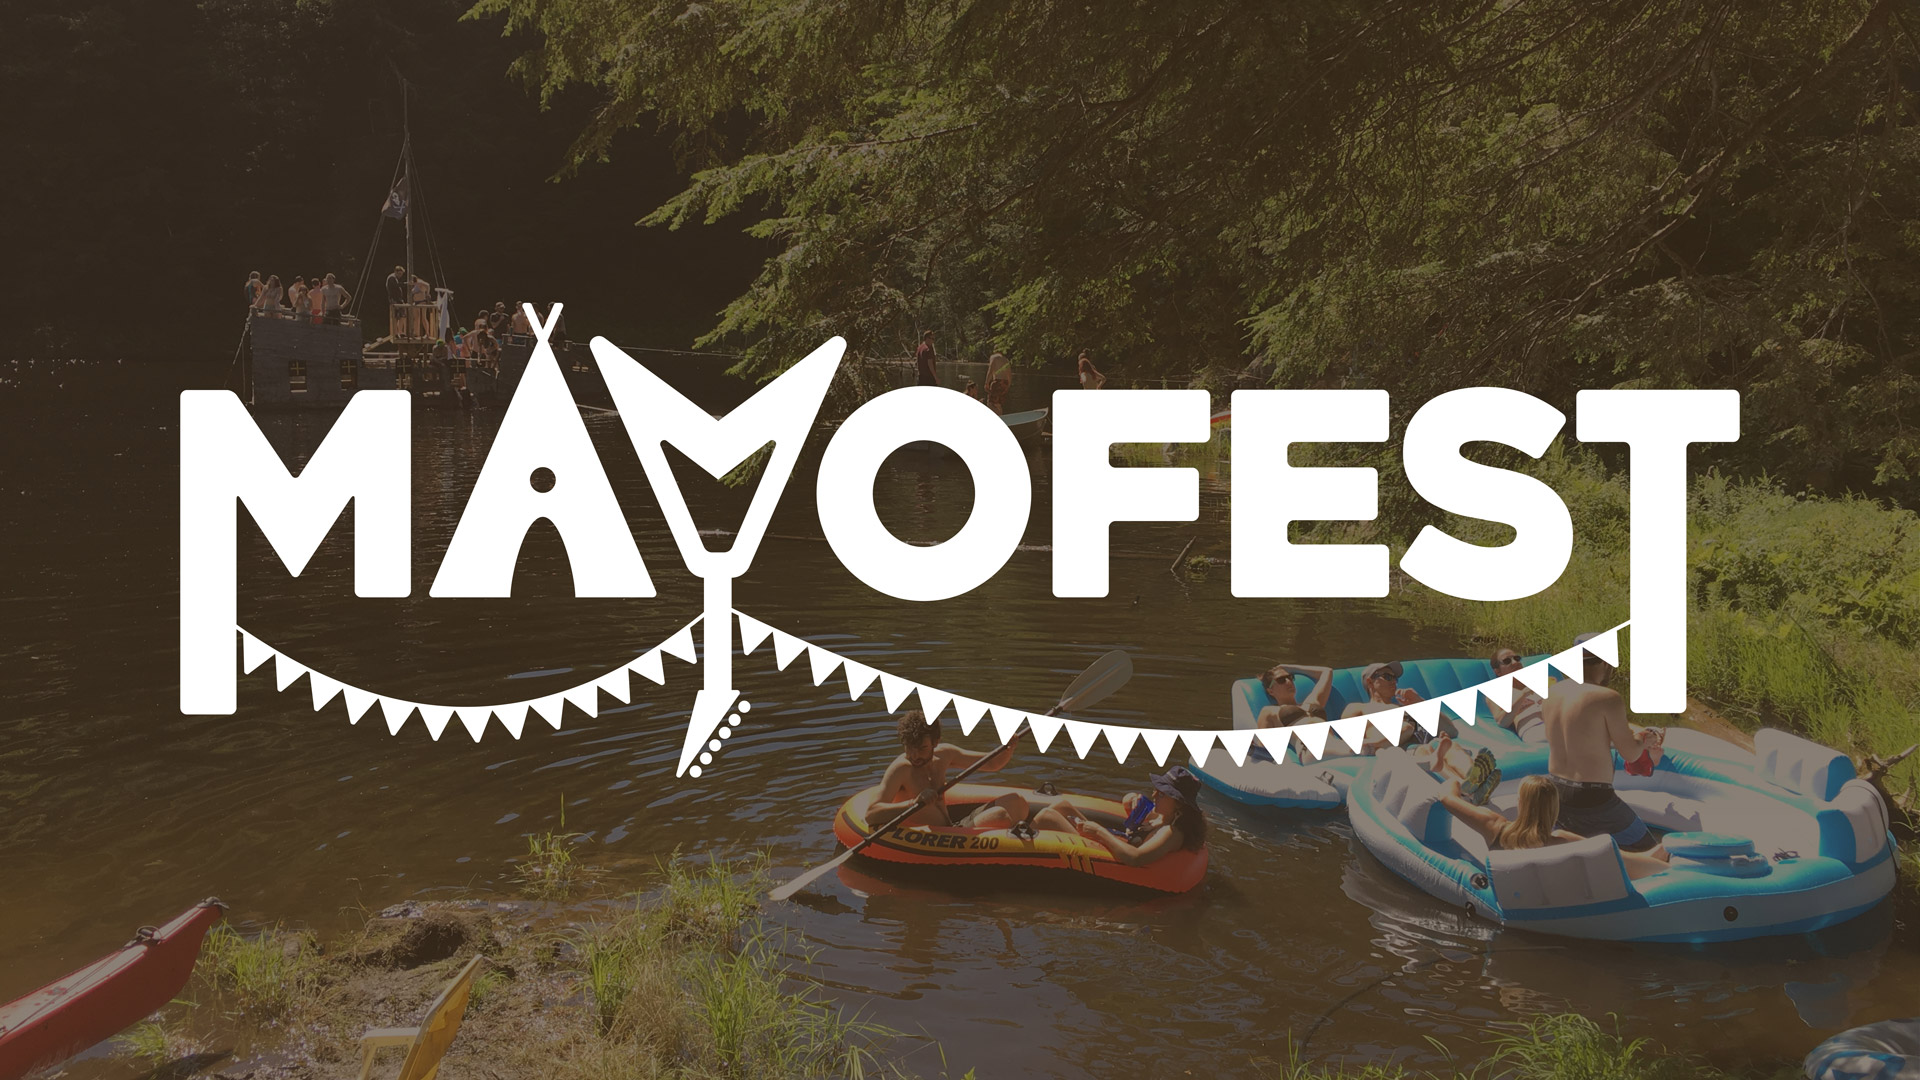
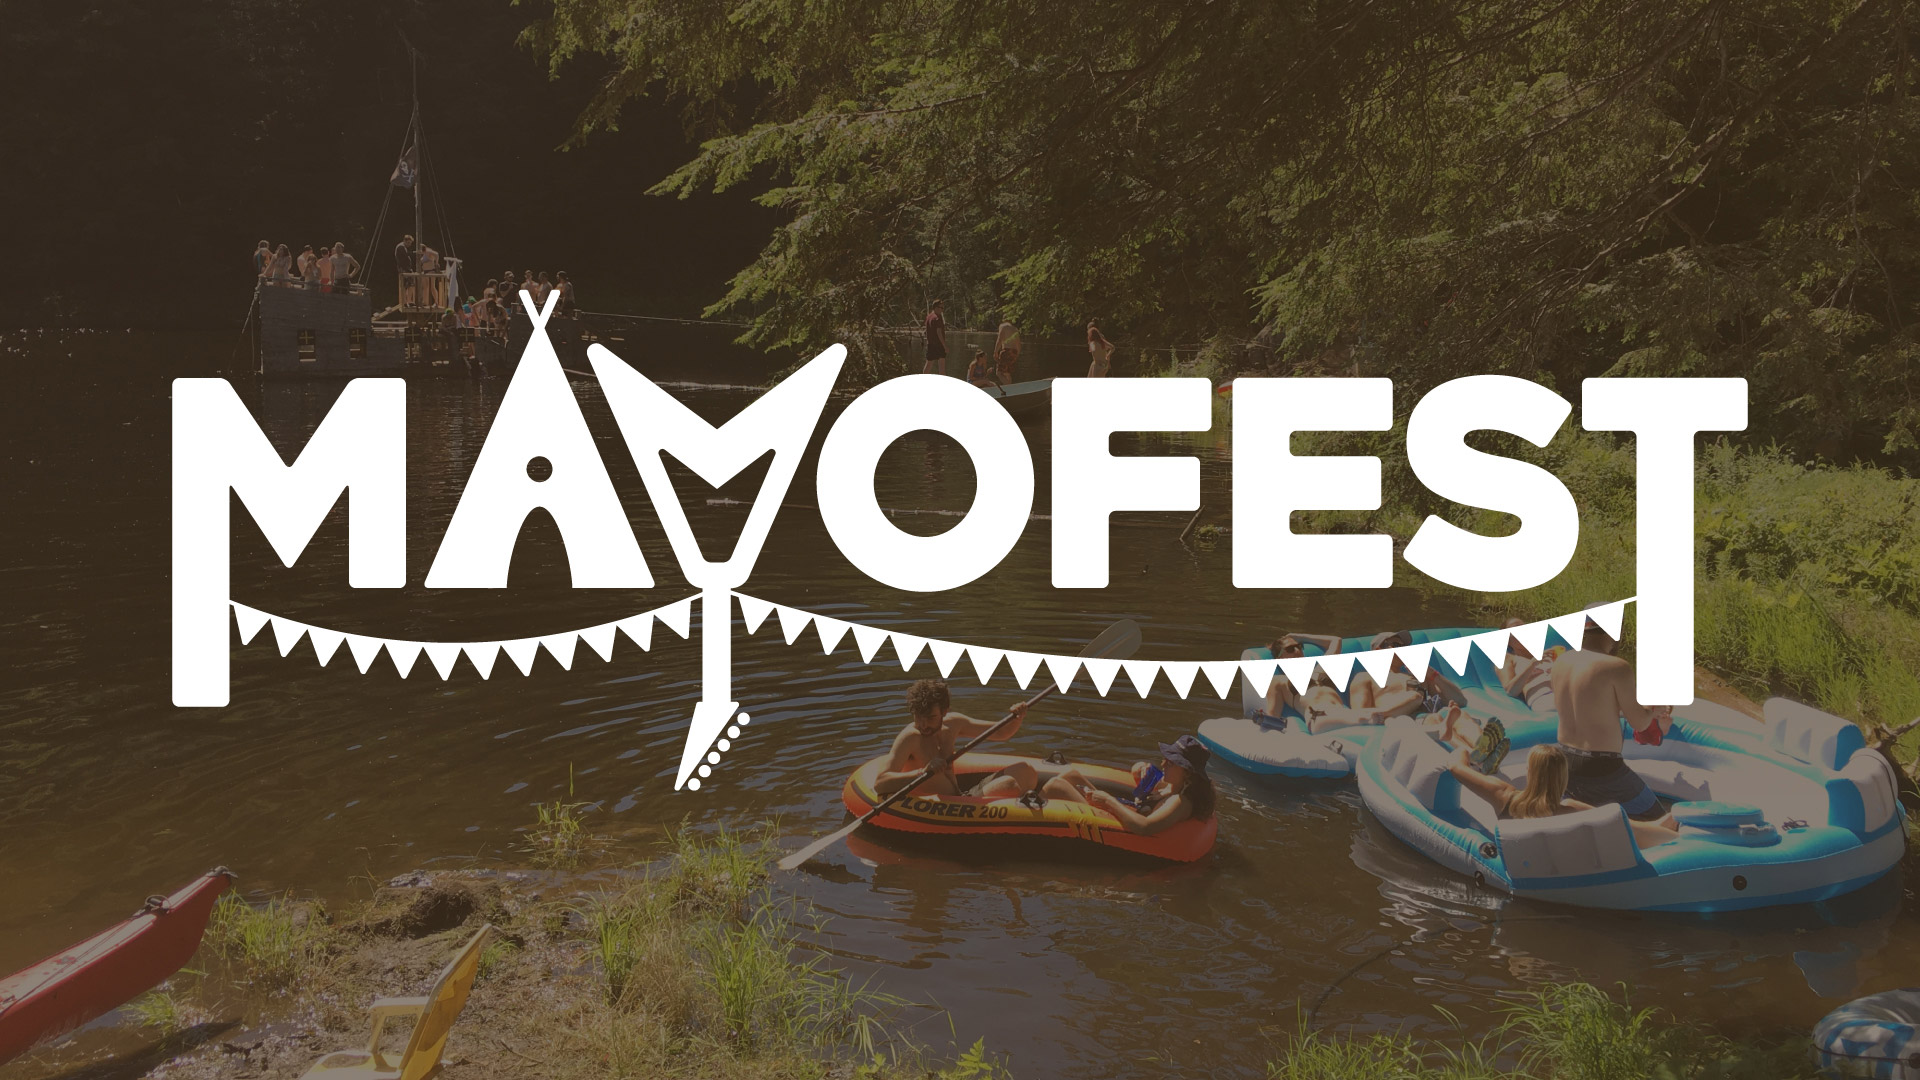
halfway through ddn case study, added hierarchy throughout case studies

diff --git a/mayofest.html b/mayofest.html
@@ -17,7 +17,7 @@ layout: studies
   <div class="grid cs-head grid-bottom cs-pad-first">
     <div class="unit l-1-3 m-1-3 s-1 island">
       <h1 class="iskra left nina">Mayofest Branding</h1>
-      <p class="intro">Mayofest is the not-for-profit go-to place for camping, music, and general good times. When they announced they were starting a contest to find a new logo, I couldn't wait to participate.</p>
+      <p class="intro">Mayofest is the not-for-profit go-to place for camping, music, and general good times. When they announced they were starting a contest to find a new logo I couldn't wait to participate, and show them what a brand can do for their vision.</p>
     </div>
     <div class="unit l-2-3 m-2-3 s-1">
       <img class="img-flex" src="{{site.baseurl}}/images/case-studies/mayofest/sketch.jpg" alt="mind mapping and sketching for mayofest branding">
@@ -30,7 +30,8 @@ layout: studies
   <div class="grid grid-middle mayo-desc">
     <div class="unit l-2-3 m-2-3 s-1 island">
       <p>When thinking of a way to visualize Mayofest, I look back on my time there this summer.</p>
-      <p>The once cottage party has truly taken on an identity of its own. It’s the most spirited, wild, and welcoming festival myself—and many others—have ever been a part of. The thing that stands out the most is the strong sense of community.</p>
+      <p>The once cottage party has truly taken on an identity of its own. It’s the most spirited, wild, and welcoming festival myself—and many others—have ever been a part of.</p>
+      <p class="giga em"><strong>The thing that stands out the most is the strong sense of community.</strong></p>
     </div>
     <div class="unit l-1-3 m-1-3 s-1">
       <img class="img-flex island" src="{{site.baseurl}}/images/case-studies/mayofest/festival.jpg" alt="picture of people at mayofest, there is a large hand buitl structure with penant banners hanging from even level">
@@ -44,8 +45,7 @@ layout: studies
   </div>
   <div class="grid">
     <div class="unit l-1-2 m-1-2 s-1 island">
-      <p>Everything is connected by the pennant banner. This shows the connection and sense of community unique to Mayofest.</p>
-      <p>The look is classic to Mayofest, but representative of the kind of atmosphere expected at this festive event.</p>
+      <p>Everything is connected by the pennant banner. This shows the connection and sense of community unique to Mayofest. The look is classic to Mayofest, but representative of the kind of atmosphere expected at this festive event.</p>
     </div>
     <div class="unit l-1-2 m-1-2 s-1">
       <p class="island">Besides trying to capture the character of Mayofest, it’s also important viewers know right away what the main attractions are. These are visualized in the A and the Y of the logo, showing a tent and a guitar making it very clear that this is the place to be for camping and great music.</p>
@@ -91,7 +91,7 @@ layout: studies
     <div class="island unit l-2-3 m-2-3 s-1">
       <p>As a not-for-profit, it’s important that the merch is as exciting as the event itself. This way, Mayofest is getting the funds they need to keep expanding, and at the same time people are excited about the merch they get to take home.</p>
       <p>One of the most important pieces of merchandise available at events is the non-glass drinking container. Since glass isn’t allowed on the grounds, people are encouraged to bring their own cups.</p>
-      <p>The perfect keepsake to any Mayo event would be the traditional camping mug or cup.</p>
+      <p class="giga em"><strong>Since Mayofesters are environmentally conscious, the perfect keepsake to any Mayo event would be the traditional camping mug or cup.</strong></p>
     </div>
     <div class="unit l-1 m-1 s-1">
       <img class="img-flex" src="{{site.baseurl}}/images/case-studies/mayofest/website.jpg" alt="example of how the new logo will be used on the website">
@@ -100,7 +100,7 @@ layout: studies
   <div class="grid grid-middle">
     <div class="unit island l-2-3 m-2-3 s-1">
       <p>Mayofest's new brand keeps the same feeling you'll find in this community, but it opens new doors to future sponsors and expansion for the event.</p>
-      <p>To view the full branding presentation, click the button for a short PDF presentation.</p>
+      <p class="em"><strong>To view the full branding presentation and open it in a new window, click the "Full Brand Presentation" button for a short PDF presentation.</strong></p>
     </div>
     <div class="center unit l-1-3 m-1-3 s-1">
       <a class="center btn btn-marg" href="https://www.scribd.com/document/366108830/Mayofest-Brand-Proposal" target="_blank">Full Brand Presentation</a>

diff --git a/ddn.html b/ddn.html
@@ -13,3 +13,42 @@ layout: studies
       <a class="milli unit l-1-3 m-1-3 xs-1-3 center" href="{{site.baseurl}}/impact">NEXT STUDY</a>
     </div>
   </header>
+
+    <div class="grid cs-head grid-bottom cs-pad-first">
+    <div class="unit l-1-3 m-1-3 s-1 island">
+      <h1 class="iskra left nina">Daily Dino News</h1>
+      <p class="intro">Daily Dino News is the up-and-coming news program for kids that's all about dinosaurs. This project didn't only involve making an identity for the program, it also involved making a video pitch to show potential investors.</p>
+    </div>
+    <div class="unit l-2-3 m-2-3 s-1">
+      <img class="img-flex" src="{{site.baseurl}}/images/banner.jpg" alt="storyboarding for dailt dino news video pitch. designers: lauren lore berg, kait moore, katrin emery, cecilia bleszynski, mj holland">
+    </div>
+  </div>
+
+  <div class="bg-img-ddn">
+  </div>
+
+  <div class="grid grid-middle">
+    <div class="unit l-1-3 m-1-3 s-1 island">
+      <img src="{{site.baseurl}}/images/case-studies/ddn/mind-map.jpg" class="img-flex" alt="shows collaborative design process, three hands stretch over piece of paper showing sketches and mind mapping. brainstorming, creative, dinosaurs, graphic design, branding.">
+    </div>
+    <div class="unit 1-2-3 m-2-3 s-1 island">
+      <h2 class="iskra left">Five minds work better</h2>
+      <p>This project was founded through Algonquin College's Applied Research Institute (ARI), where we created a proposal to work with Gerald Tripp. Gerald is renowned in the animation world, and it was very exciting to bring his vision into a reality.</p>
+      <p>Five of us third year graphic design students were paired and assigned roles key to the success of the project. I had the position of Team Lead, where I was in charge or client and group communications, setting meeting times and deadlines, as well as handling all final submissions.</p>
+      <p class="em"><strong>With an amazing team of people well versed in motion graphics, illustration, and branding—we knew we were the team to get this concept off the ground.</strong></p>
+    </div>
+
+    <div class="img-flex">
+      <img src="{{site.baseurl}}/images/case-studies/ddn/evolve.jpg" class="img-flex" alt="shows the progression of the logo from sketch to a vector illustration on adobe illustrator">
+      <img src="{{site.baseurl}}/images/case-studies/ddn/evolve-two.jpg" class="img-flex" alt="shows the evolution of the vector illustration, beginning with a meteor the final has lost this in the still. there was also a mid range one experimenting with a microphone in the dino's hand">
+    </div>
+    <div class="grid grid-bottom">
+      <div class="unit l-1-3 m-1-3 s-1 island">
+        <h2 class="iskra">Evolution</h2>
+      </div>
+      <div class="unit l-2-3 m-2-3 s-1 island">
+        <p>As a group, we chose ten of our favourite sketches each and came together to decide on the strongest. From those 50 sketches, we narrowed it down to a top 4. We decided that we shouldn't develop our own concepts, of the top four I developed Katrin Emery's sketch to present to the client.</p>
+        <p>I was lucky to have been the one to expand on Katrin's sketch, as I was primarily the one to develop it throughout and prepared it to be animated. Meeting with the client and working as a team encouraged different design decisions. Throughout the process, our tyrannosaurus rex gained brighter colours, a deeper smile, and playful details and textures. Along the way the static logo dropped the meteor, and had our dino facing a now active volcano.</p>
+        <p class="em"><strong>From pencil to pixel, this logo was refined and developed for its primary purpose—being animated. </strong></p>
+      </div>
+    </div>

diff --git a/css/main.css b/css/main.css
@@ -51,6 +51,10 @@ h2 {
   width: 100%;
 }
 
+.em {
+  color: #7C8080;
+}
+
 /* NAV */
 
 .navbar {
@@ -93,12 +97,12 @@ a {
   background-repeat: no-repeat;
   background-size: 100% auto;
   background-position: center;
+  background-attachment: fixed;
 }
 
 .why-box {
   opacity: 0.7;
   padding-bottom: 1rem;
-  border-radius: 0 8px 0 0;
 }
 
 .why {
@@ -112,6 +116,7 @@ a {
   background-color: #fff;
   width: 50%;
   opacity: 1;
+  border-radius: 0 8px 0 0;
 }
 
 .why-b {
@@ -120,6 +125,7 @@ a {
   background-color: #fff;
   width: 50%;
   opacity: 1;
+  border-radius: 0 0 8px 0;
 }
 
 /* ABOUT */
@@ -173,10 +179,21 @@ img.grayscale:hover {
 
 .bg-img-mayo {
   position: relative;
-  background-image: url("{{site.baseurl}}/images/case-studies/mayofest/mayo-sq.jpg");
+  background-image: url("{{site.baseurl}}/images/case-studies/mayofest/mayo.jpg");
   min-height: 15rem;
   overflow: hidden;
   background-repeat: repeat;
+  background-size: 100% auto;
+  background-position: center;
+  background-attachment: fixed;
+}
+
+.bg-img-ddn {
+  position: relative;
+  background-image: url("{{site.baseurl}}/images/case-studies/ddn/final.jpg");
+  min-height: 15rem;
+  overflow: hidden;
+  background-repeat: no-repeat;
   background-size: 100% auto;
   background-position: center;
   background-attachment: fixed;
@@ -214,7 +231,7 @@ img.grayscale:hover {
 /* FOOTER */
 
 .footer-distributed{
-  background-color: #292c2f;
+  background-color: #1c2f33;
   box-shadow: 0 1px 1px 0 rgba(0, 0, 0, 0.12);
   box-sizing: border-box;
   width: 100%;
@@ -336,6 +353,17 @@ img.grayscale:hover {
     padding-top: 4em;
   }
 
+  .bg-img-ddn {
+    position: relative;
+    background-image: url("{{site.baseurl}}/images/case-studies/ddn/final.jpg");
+    min-height: 25rem;
+    overflow: hidden;
+    background-repeat: no-repeat;
+    background-size: 100% auto;
+    background-position: center;
+    background-attachment: fixed;
+  }
+
 }
 
 @media only screen and (min-width: 60em) {
@@ -350,10 +378,21 @@ img.grayscale:hover {
 
   .bg-img-mayo {
     position: relative;
-    background-image: url("{{site.baseurl}}/images/case-studies/mayofest/mayo-sq.jpg");
+    background-image: url("{{site.baseurl}}/images/case-studies/mayofest/mayo.jpg");
     min-height: 25rem;
     overflow: hidden;
     background-repeat: repeat;
+    background-size: 100% auto;
+    background-position: center;
+    background-attachment: fixed;
+  }
+
+  .bg-img-ddn {
+    position: relative;
+    background-image: url("{{site.baseurl}}/images/case-studies/ddn/final.jpg");
+    min-height: 35rem;
+    overflow: hidden;
+    background-repeat: no-repeat;
     background-size: 100% auto;
     background-position: center;
     background-attachment: fixed;
@@ -394,7 +433,7 @@ img.grayscale:hover {
 
   .bg-img-mayo {
     position: relative;
-    background-image: url("{{site.baseurl}}/images/case-studies/mayofest/mayo-sq.jpg");
+    background-image: url("{{site.baseurl}}/images/case-studies/mayofest/mayo.jpg");
     min-height: 40rem;
     overflow: hidden;
     background-repeat: repeat;

diff --git a/alive.html b/alive.html
@@ -29,21 +29,21 @@ layout: studies
   <div class="grid">
     <div class="unit l-1-3 m-1-3 s-1 island">
       <img class="img-flex" src="{{site.baseurl}}/images/case-studies/alive/1.png" alt="the starting stages of the creative process, illustrated with an interaction between the client and the designer">
-      <h3>the proposal</h3>
+      <h3 class="iskra pad-top">the proposal</h3>
       <p>The project starts with a proposal, whether from your teacher, boss, or client. They say when people make you nervous imagine them in their underwear.</p>
-      <h3>research</h3>
+      <h3 class="iskra pad-top">research</h3>
       <p>This phase shows exhaustive research (literally).</p>
     </div>
     <div class="unit l-1-3 m-1-3 s-1 island">
       <img class="img-flex" src="{{site.baseurl}}/images/case-studies/alive/2.png" alt="the starting stages of the creative process, illustrated with an interaction between the client and the designer">
-      <h3>ideate</h3>
+      <h3 class="iskra pad-top">ideate</h3>
       <p>During ideation, follow the scraps of paper to find the artist between fueling and sketching. A little messy—but very explorative.</p>
-      <h3>coffee</h3>
+      <h3 class="iskra pad-top">coffee</h3>
       <p>Between problem statements, target audiences, personas, concepts, prototyping—there is the real MVP—a great cup of coffee.</p>
     </div>
     <div class="unit l-1-3 m-1-3 s-1 island">
       <img class="img-flex" src="{{site.baseurl}}/images/case-studies/alive/3.png" alt="the starting stages of the creative process, illustrated with an interaction between the client and the designer">
-      <h3 class="iskra">IT'S ALIVE</h3>
+      <h3 class="iskra pad-top exa">IT'S ALIVE</h3>
       <p>Following the designer up the mountain, a mad scientist is born as her creation comes to life (cue thunder and lightening).</p>
     </div>
   </div>

diff --git a/map.html b/map.html
@@ -32,9 +32,10 @@ layout: studies
       <img class="img-flex" src="{{site.baseurl}}/images/case-studies/map/previous-map.jpg" alt="and image of the old map, which is unreadable for many reasons. one of which is that there is thin black text over a red textured background.">
     </div>
     <div class="unit l-1-2 m-1-2 s-1 island">
-      <h2>spot of bother</h2>
+      <h2 class="iskra">spot of bother</h2>
       <p>The existing Map of Operations didn’t only need a visual update, there were also issues with readability. The colours and texture used on the original map made it very hard to read the 6pt. condensed typeface used across it.</p>
       <p>The previous designer also left their working file in an unusable way, since the internal communications department of Canadian Blood Services only worked with interns for their graphic design work, this meant that files needed to be usable beyond my internship.</p>
+      <p class="em"><strong>First and foremost, the map needed to be legible and attractive. People need to be interested in a topic that would otherwise seem mundane to the 9–5 employees at Canadian Blood Services.</strong></p>
     </div>
   </div>
 
@@ -67,7 +68,7 @@ layout: studies
 
   <div class="grid grid-bottom island">
     <div class="unit l-1-3 m-1-3 s-1">
-      <h2>extra</h2>
+      <h2 class="iskra">extra</h2>
     </div>
     <div class="unit l-2-3 m-2-3 s-1">
       <p>This map was designed during Canada’s 150 celebrations. To add a little something special, I added several elements of Canadiana across the map. From Canadian animals—beaver, moose, orca whales—to the Parliament Buildings, totem poles, and the CN Tower. These can all be easily hidden when Canada’s 150 celebrations come to a close.</p>

diff --git a/_layouts/studies.html b/_layouts/studies.html
@@ -33,7 +33,6 @@
     </div>
   </footer>
 
-  <script type="text/javascript" src="js/nav.js"></script>
   <script src="https://use.typekit.net/esy0vnb.js"></script>
   <script>try{Typekit.load({ async: true });}catch(e){}</script>
 
